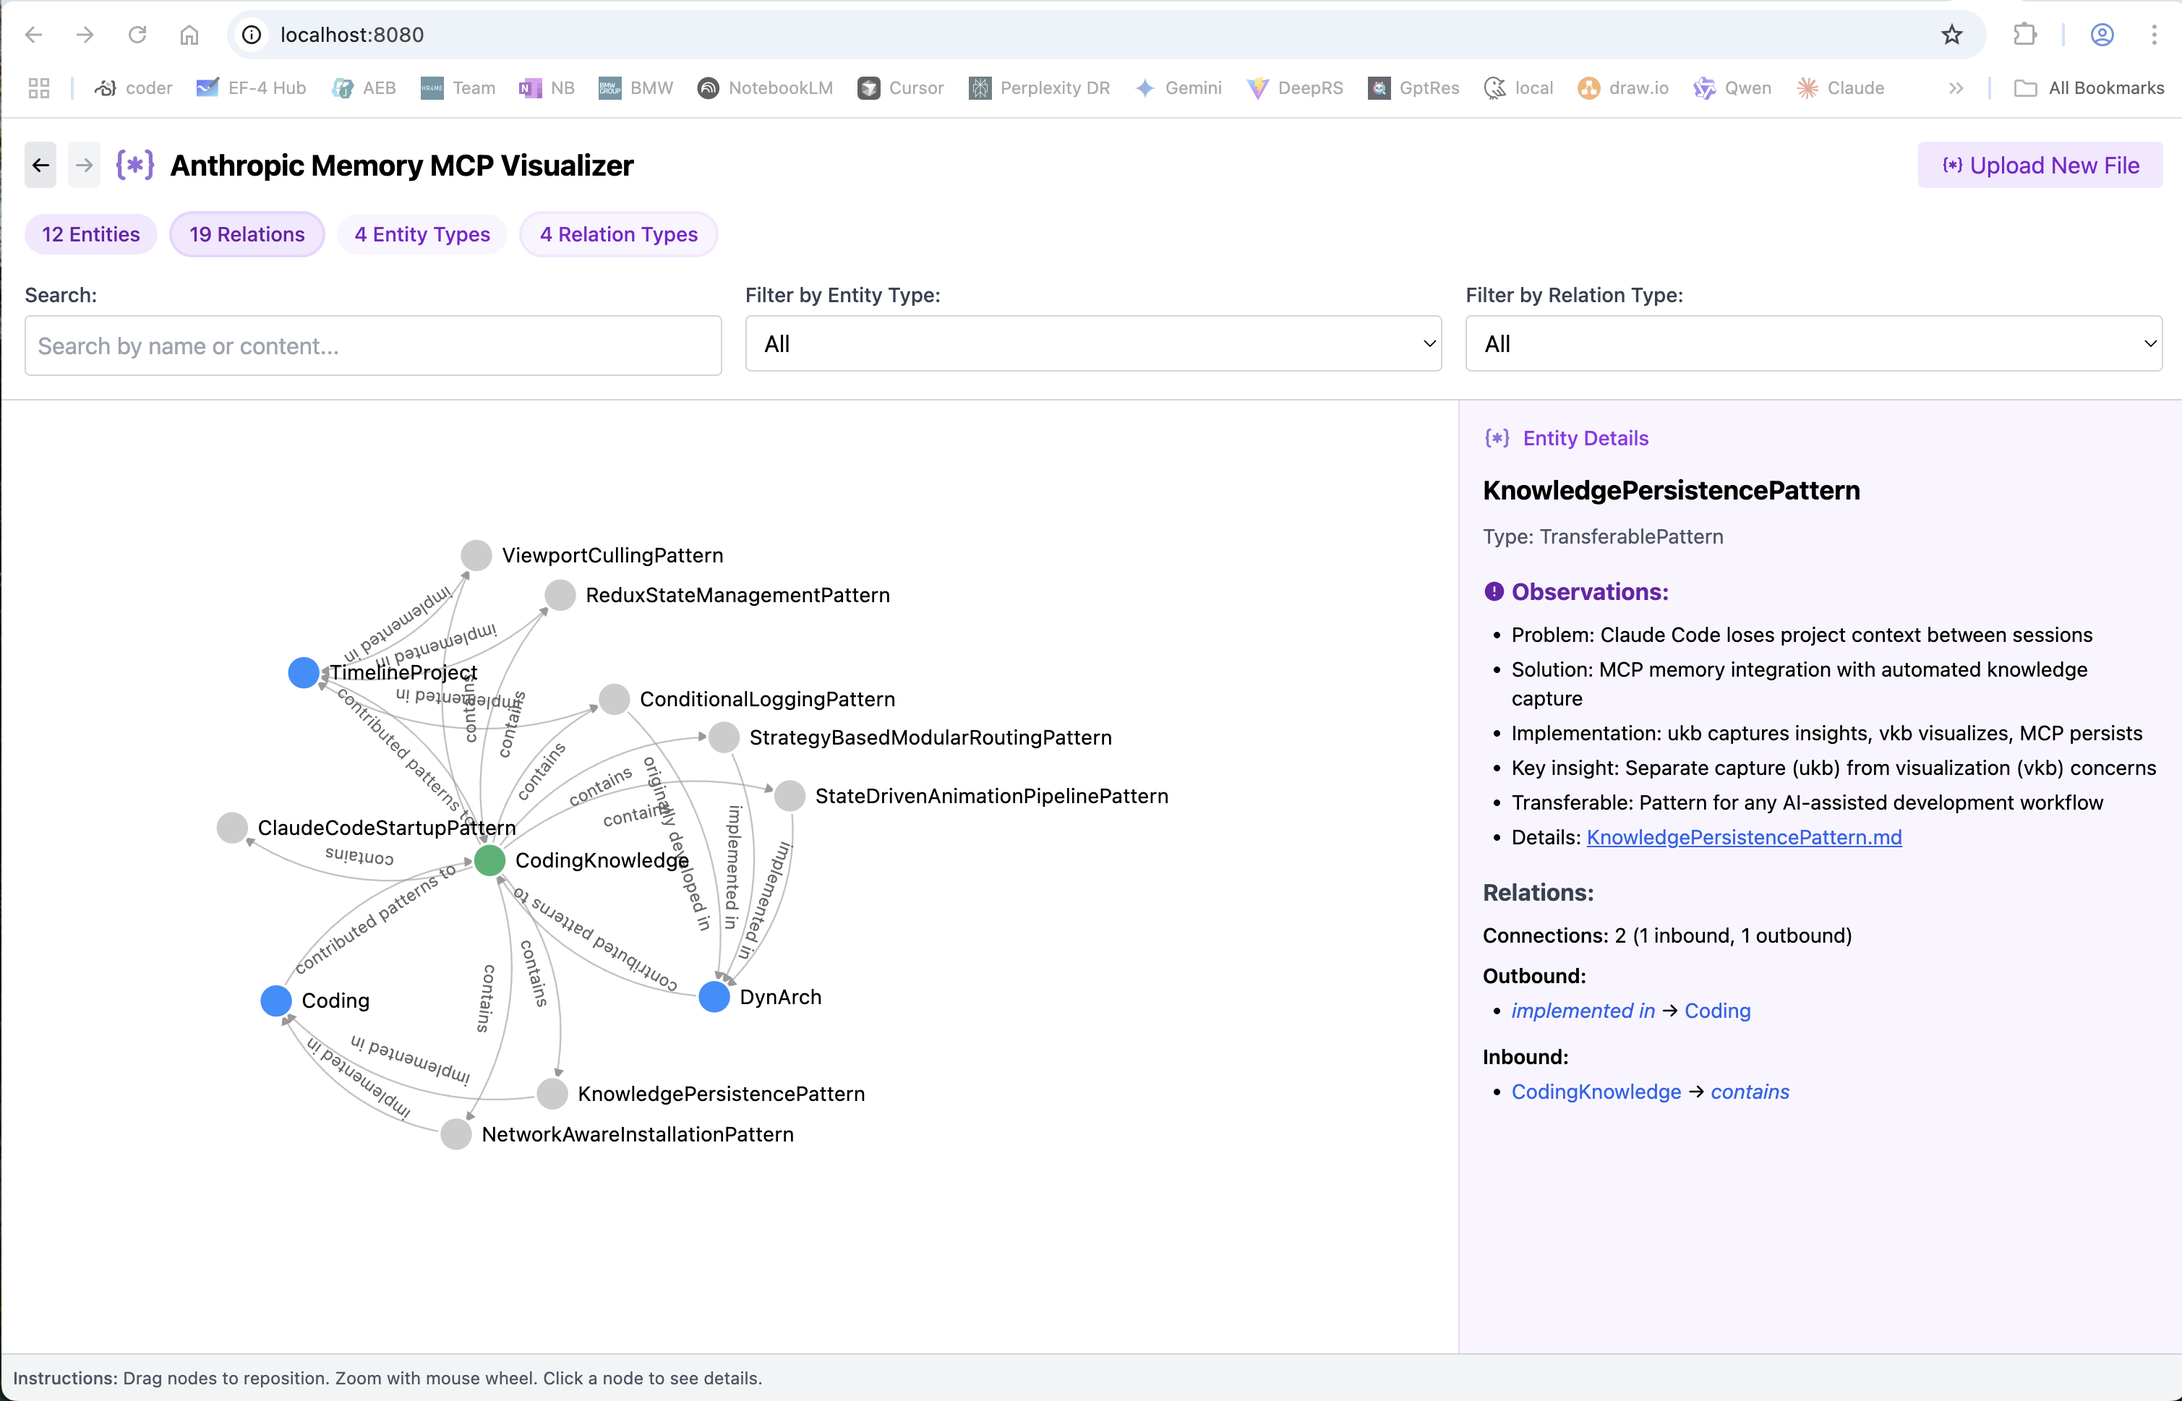
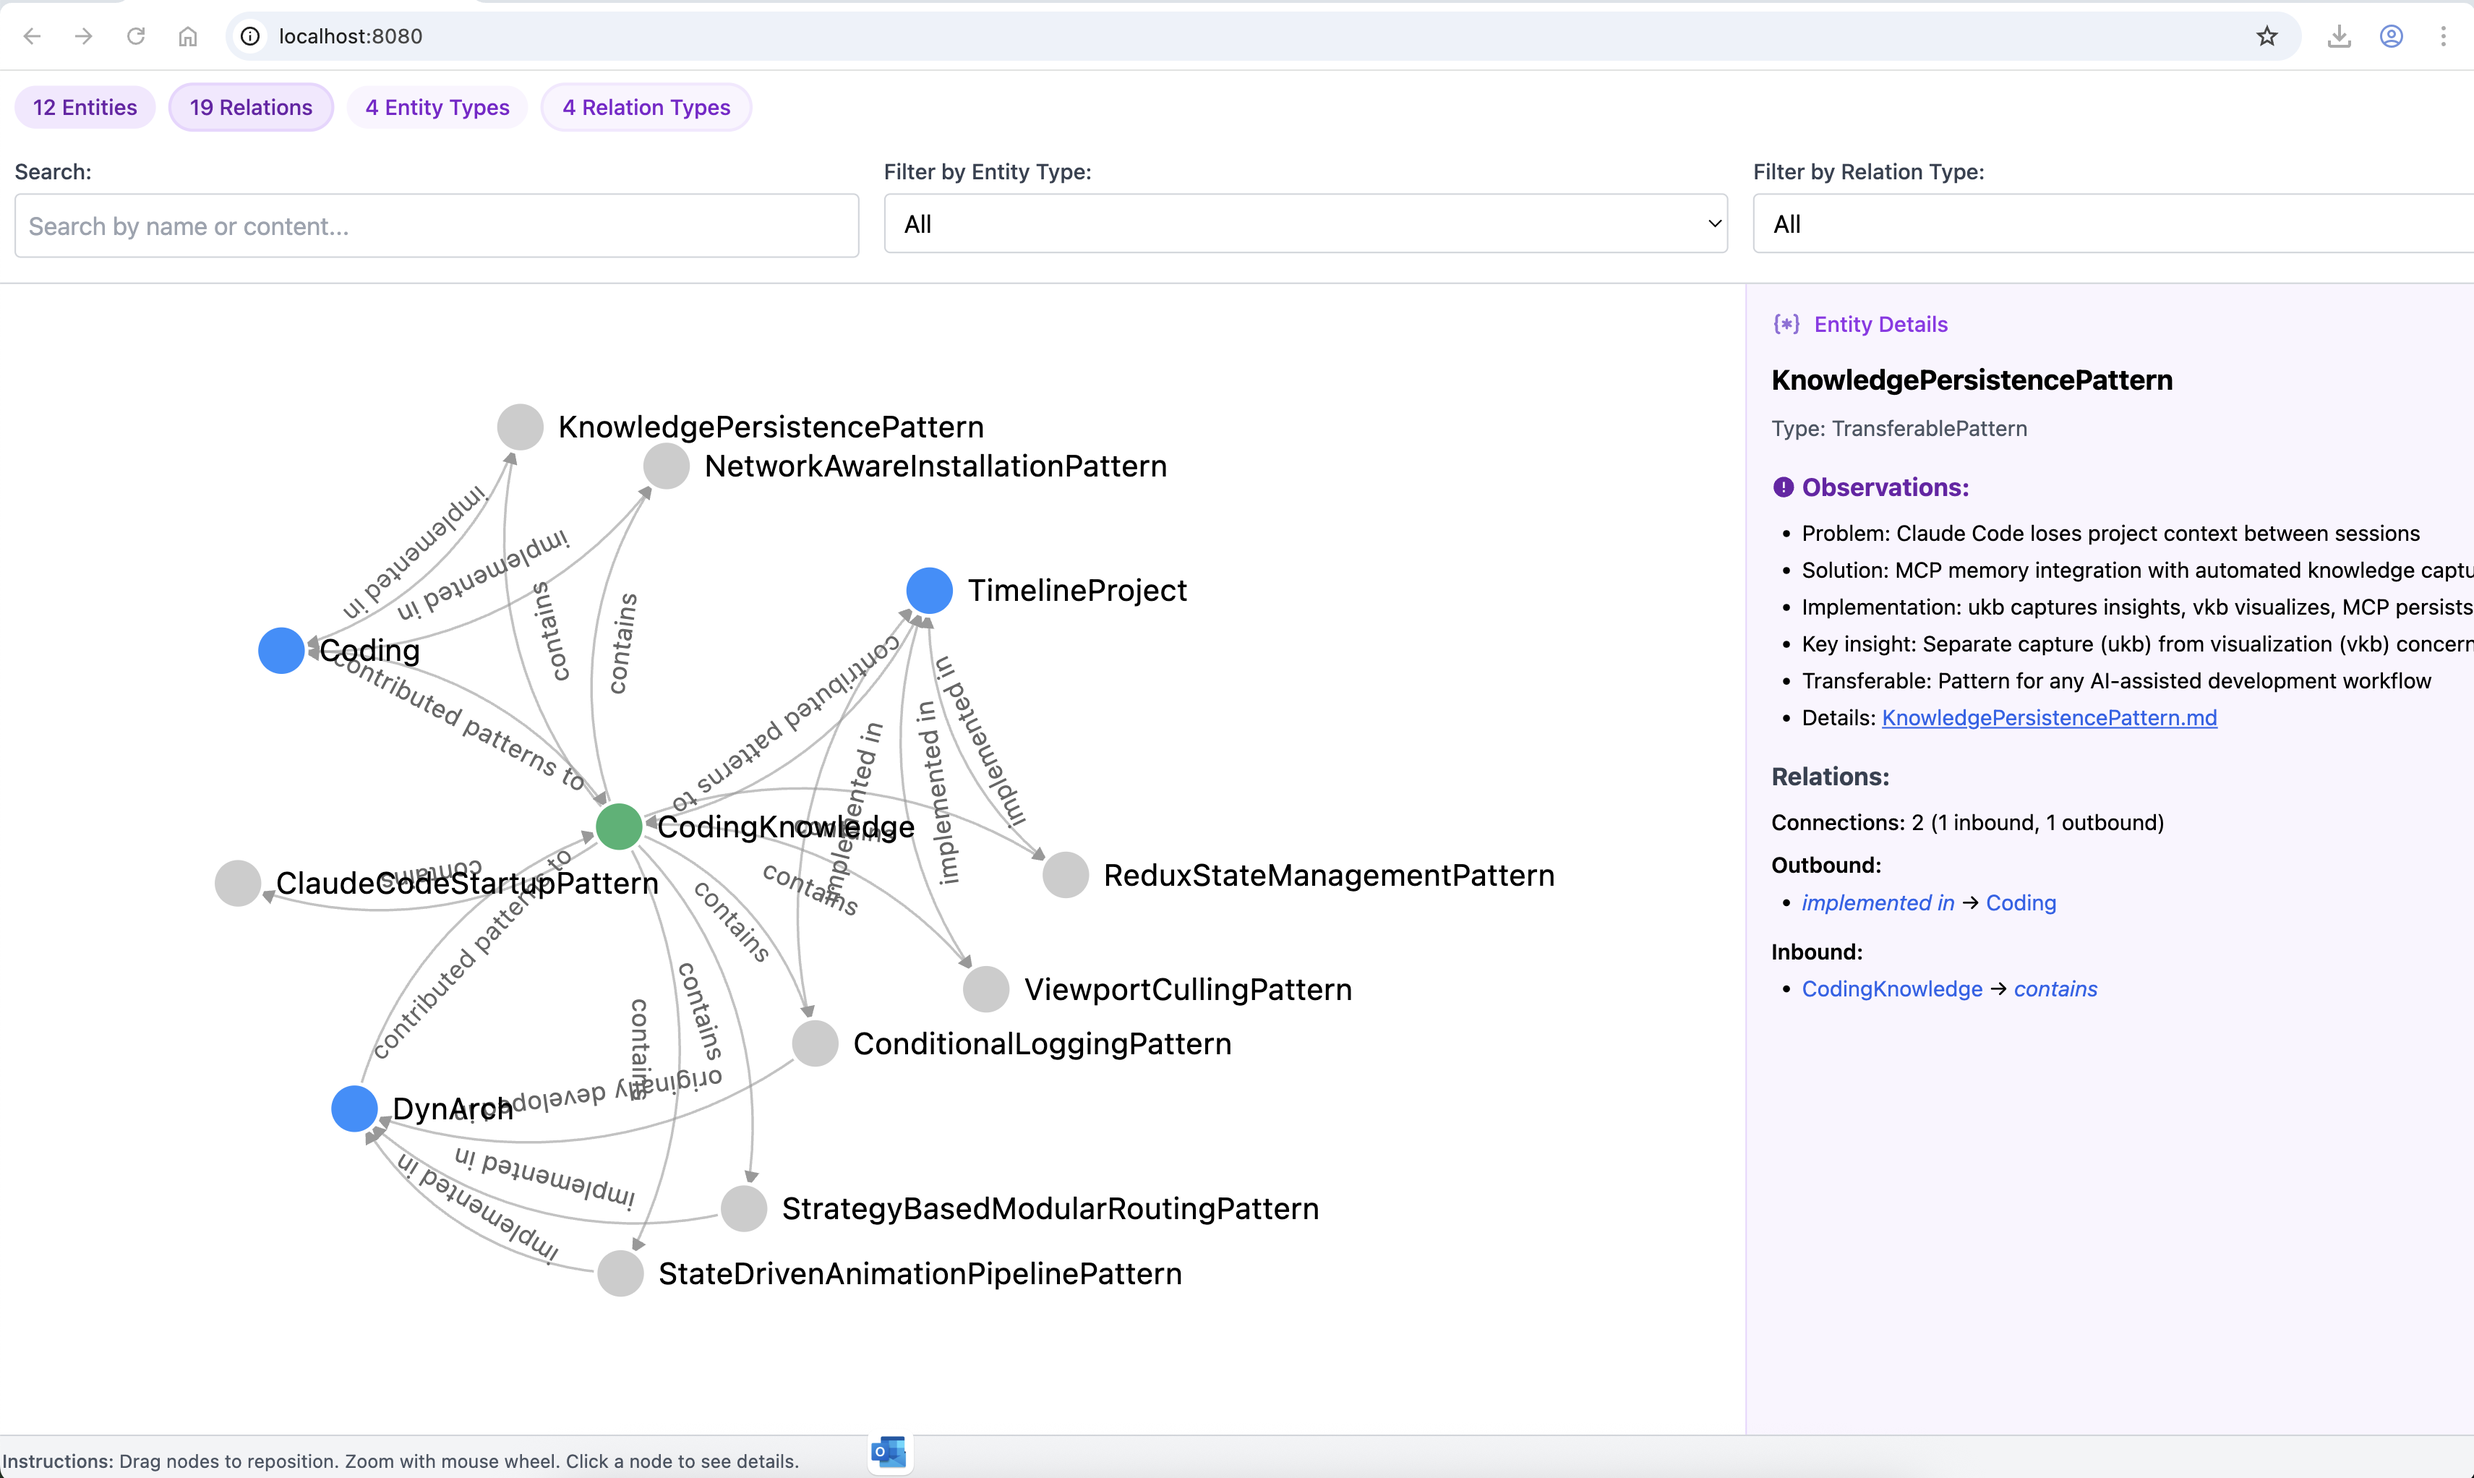
docs: corrected broken imag/images links and updated screenshots (viewer)

diff --git a/knowledge-management/insights/NetworkAwareInstallationPattern.md b/knowledge-management/insights/NetworkAwareInstallationPattern.md
@@ -30,7 +30,7 @@ timeout 5s curl -s --connect-timeout 5 https://google.de
 - Provide clear success/failure criteria
 - Fall back gracefully through multiple detection methods
 
-![Network-Aware Installation Pattern](imag/network-aware-installation-pattern.png)
+![Network-Aware Installation Pattern](images/network-aware-installation-pattern.png)
 
 ### Repository Strategy Patterns
 
@@ -99,7 +99,7 @@ config_files=(
 
 **Common Scenario:** Developers need access to both corporate GitHub and public GitHub with different SSH keys.
 
-![SSH Key Management Pattern](imag/ssh-key-management-pattern.png)
+![SSH Key Management Pattern](images/ssh-key-management-pattern.png)
 
 **SSH Config Pattern:**
 

diff --git a/docs/documentation.md b/docs/documentation.md
@@ -271,6 +271,15 @@ Clicking any node shows:
 - Creation date
 - All relationships (inbound/outbound)
 
+![Knowledge Visualization Details](imag/viewer-details.png)
+
+When a node contains references to detailed markdown documentation (e.g., transferable patterns), clicking the markdown link opens a full-screen viewer with:
+
+- Rich markdown formatting with syntax highlighting
+- Embedded diagrams and visualizations
+- Code examples and implementation details
+- Cross-references to related patterns
+
 ## Team Collaboration
 
 ### Git Integration

diff --git a/README.md b/README.md
@@ -5,6 +5,9 @@ This repository contains various scripts and tools created with Claude Code, foc
 ## Knowledge-Base Viewer:
 ![Knowledge Visualization](docs/imag/viewer.png)
 
+## Viewer Details Mode:
+![Knowledge Visualization Details](docs/imag/viewer-details.png)
+
 ## Session Startup with Key-Insights
 ![Claude MCP Auto-Logging](docs/imag/claude-mcp-autologging.png)
 

diff --git a/.mcp-sync/auto-sync.md b/.mcp-sync/auto-sync.md
@@ -65,4 +65,4 @@ console.log(`✅ MCP Memory loaded: ${graphState.nodes?.length || 0} entities, $
 - ClaudeCodeStartupPattern (significance: 10)
 - StrategyBasedModularRoutingPattern (significance: 8)
 
-**Sync prepared at:** Fri Jun 13 17:32:09 CEST 2025
+**Sync prepared at:** Sat Jun 14 07:26:14 CEST 2025
